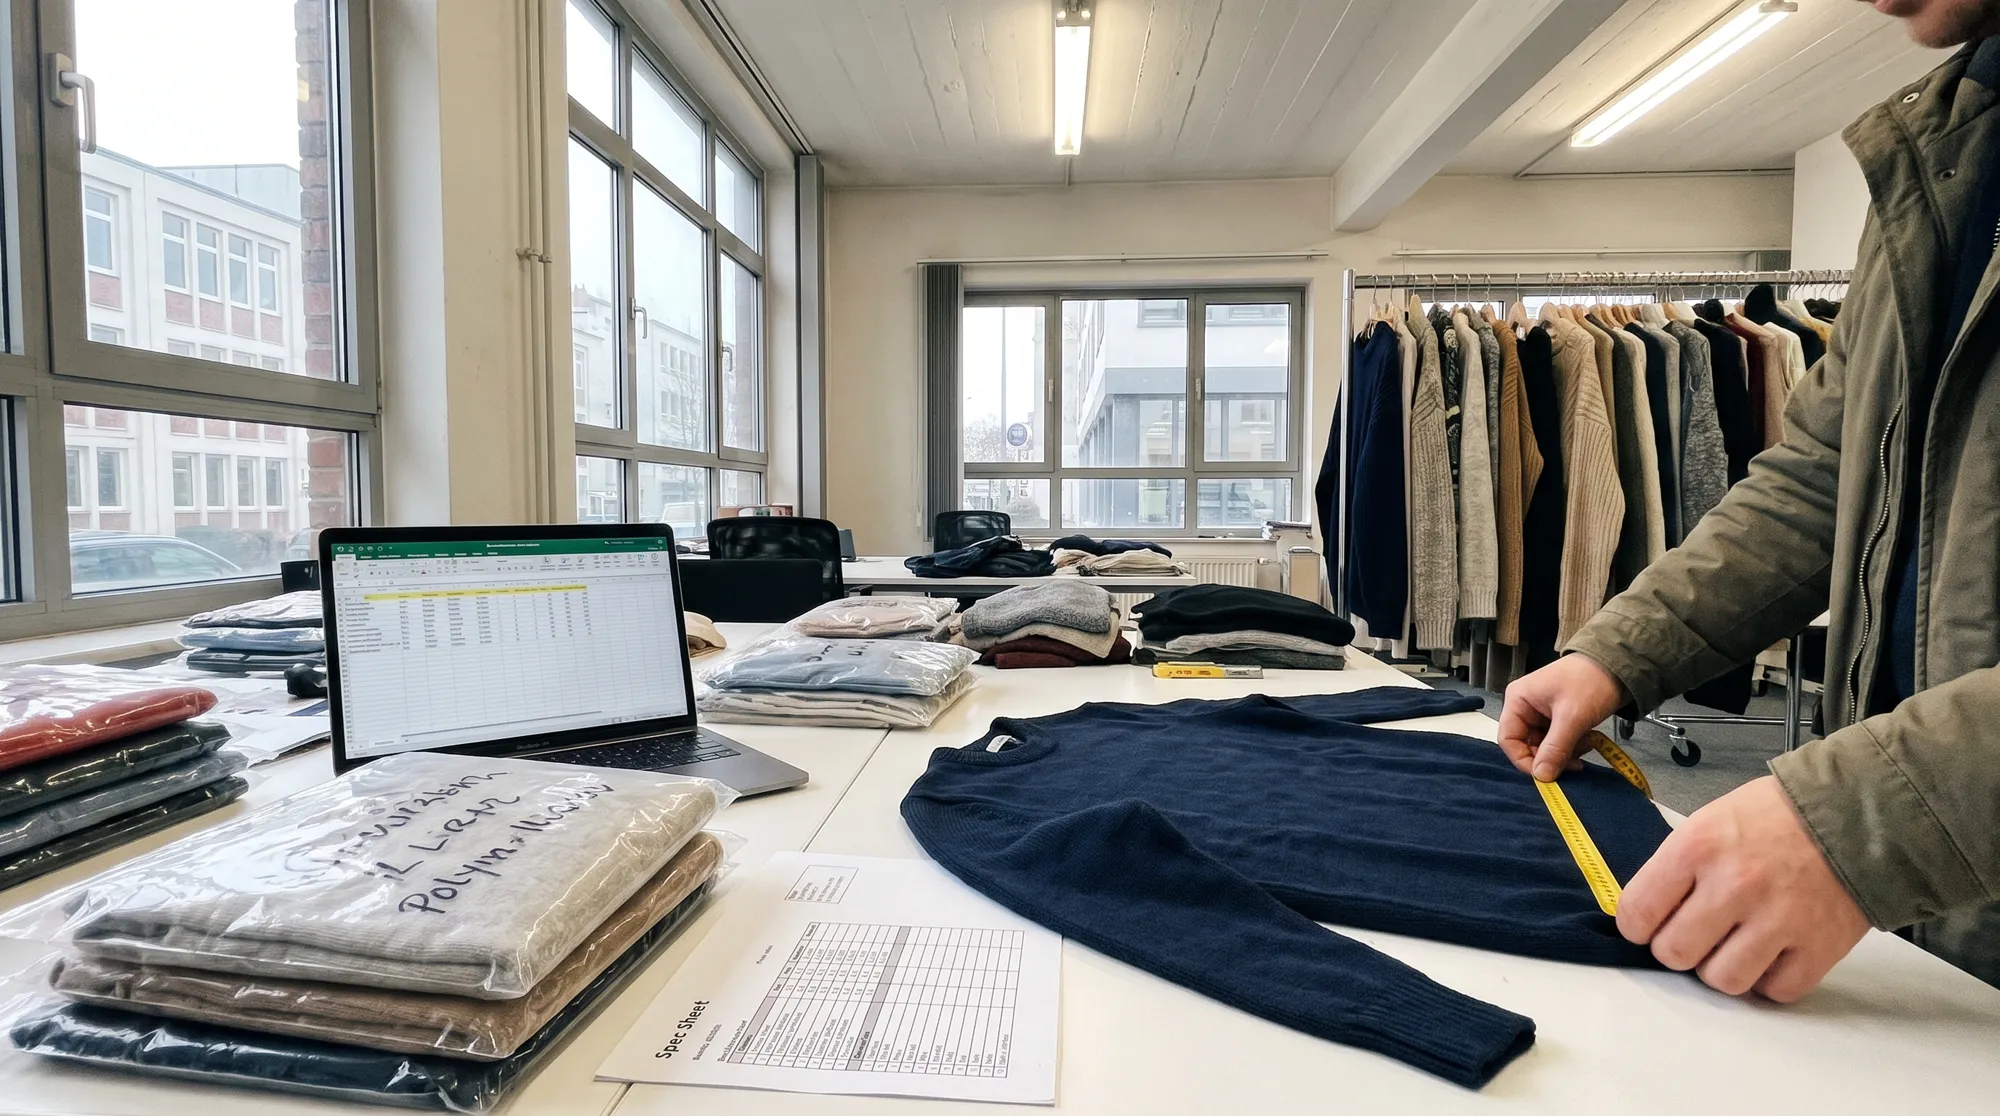
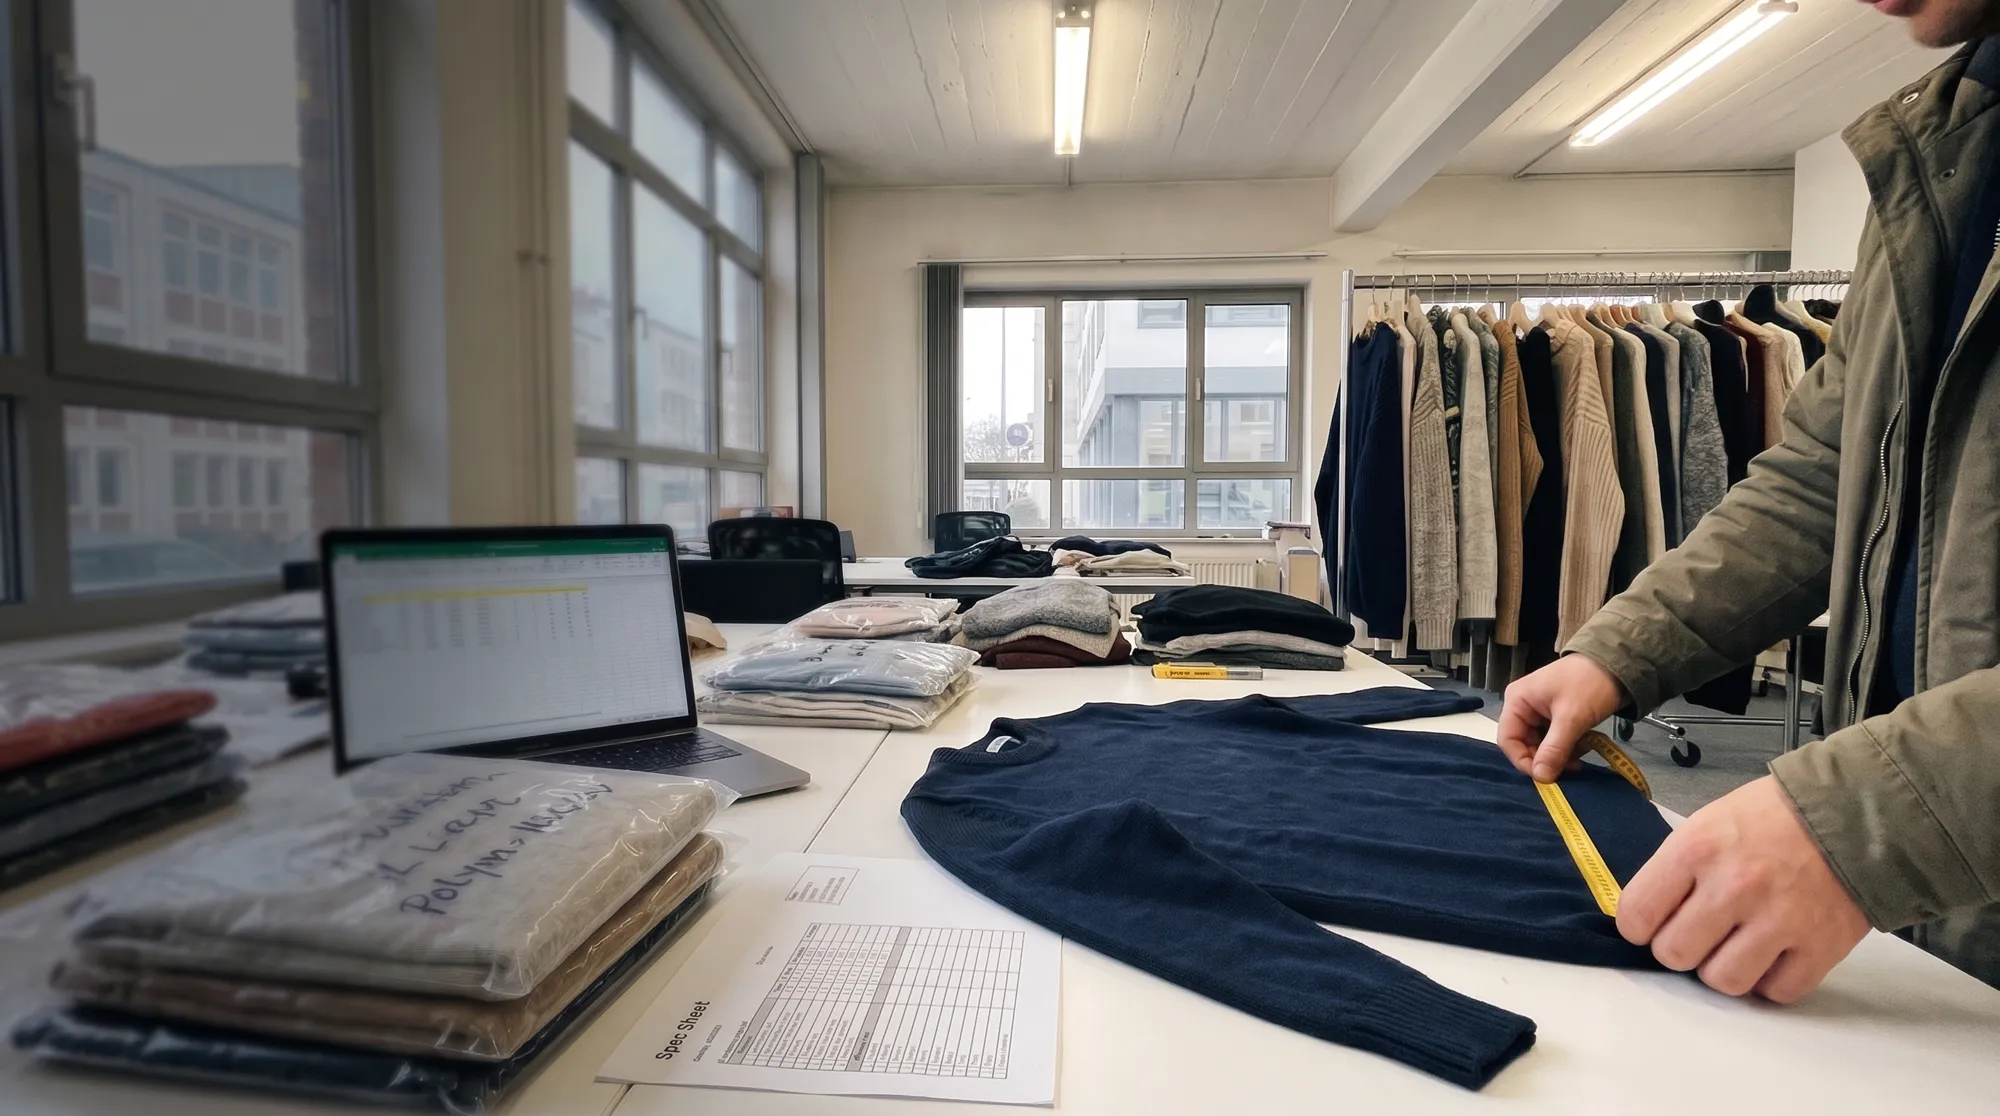
The quotes read like mercury.com's and hold WCAG AAA on every room, with no hard seam (founder, 24 Oct 2026)
The quote is set large and the name and role a size down, the role in grey, as Mercury sets its
founder's words. Behind them the room eases into shade: the photos' text side dimmed by Nano Banana
Pro from their own jobs, then an oval of the night's ground and a blur in 2, 4 and 6 px steps
centred on the words, so the sharp room never meets a masked edge. Every glyph measured AAA at 390,
820 and 1440 on all three rooms. Colours come from the tokens (the hand-typed colour check failed
CI on the first push).

diff --git a/components/site/sections/voices.tsx b/components/site/sections/voices.tsx
@@ -3,7 +3,7 @@
 // What suppliers and buyers said, in the place of mercury.com's customer stories. The founder spoke with a few of each
 // before launch (24 Oct 2026); their names are withheld until then, so each slide names the role, the kind of company
 // and the place, and the line under the slides says so. The photographs (Higgsfield, PROVENANCE.md) show each
-// speaker's setting and never a face, so no picture stands in for a person. Nothing moves on its own (founder, 24 Oct
+// speaker's setting and never the speaker's face, so no picture stands in for a person. Nothing moves on its own (founder, 24 Oct
 // 2026): a slide changes only when it is dragged or a rule under it is clicked.
 
 import { useRef, useState } from "react";
@@ -33,6 +33,25 @@ export const VOICES = [
     where: "Knitwear importer · Germany",
   },
 ] as const;
+
+/**
+ * The blur under the words, in three light steps (2, 4 and 6 px): each stronger one covers less of an oval centred on the
+ * words (the card's lower part on a phone), so the room goes soft gradually and never at an edge (founder, 24 Oct 2026:
+ * one 12 px blur behind a straight mask read as too much, with a hard seam).
+ */
+const SOFTEN = [
+  "backdrop-blur-[2px] [mask-image:linear-gradient(to_top,black_30%,transparent_72%)] sm:[mask-image:radial-gradient(ellipse_44%_62%_at_24%_72%,black_40%,transparent_90%)]",
+  "backdrop-blur-[4px] [mask-image:linear-gradient(to_top,black_20%,transparent_58%)] sm:[mask-image:radial-gradient(ellipse_44%_62%_at_24%_72%,black_30%,transparent_72%)]",
+  "backdrop-blur-[6px] [mask-image:linear-gradient(to_top,black_8%,transparent_44%)] sm:[mask-image:radial-gradient(ellipse_44%_62%_at_24%_72%,black_20%,transparent_56%)]",
+];
+
+/**
+ * The shade under the words, in the night's own ground: an oval centred on them, holding under the text and easing out
+ * through many stops so no step shows, the rest of the room left bright. Measured on all three rooms at 390, 820 and
+ * 1440: the name and role (normal text) at 7:1 or better, the quote (large text from 1024 px) at 4.5:1 or better, WCAG AAA.
+ */
+const SHADE =
+  "bg-[linear-gradient(to_top,rgb(var(--mk-ground-night)/0.86)_0%,rgb(var(--mk-ground-night)/0.82)_35%,rgb(var(--mk-ground-night)/0.7)_52%,rgb(var(--mk-ground-night)/0.45)_64%,rgb(var(--mk-ground-night)/0.2)_77%,transparent_90%)] sm:bg-[radial-gradient(ellipse_42%_48%_at_0%_100%,rgb(var(--mk-ground-night)/0.55)_0%,rgb(var(--mk-ground-night)/0.38)_45%,rgb(var(--mk-ground-night)/0.16)_75%,transparent_100%),radial-gradient(ellipse_44%_62%_at_24%_72%,rgb(var(--mk-ground-night)/0.84)_0%,rgb(var(--mk-ground-night)/0.82)_50%,rgb(var(--mk-ground-night)/0.68)_62%,rgb(var(--mk-ground-night)/0.45)_74%,rgb(var(--mk-ground-night)/0.24)_85%,rgb(var(--mk-ground-night)/0.08)_94%,transparent_100%)]";
 
 /** How far a drag must travel, in pixels, before it changes the slide. */
 const SWIPE = 60;
@@ -66,18 +85,22 @@ export function Voices() {
           const showing = i === on;
           return (
             <figure key={v.photo} inert={!showing} aria-hidden={!showing} className="w-full shrink-0">
-              <div className={cn(column, "relative aspect-[4/5] overflow-hidden rounded-frame bg-sunken sm:aspect-[2/1]")}>
-                {/* The photograph fills the card, as mercury.com's does (founder, 24 Oct 2026: no dark shadow down the left);
-                    a wash rising from the bottom keeps the words readable over a bright room. */}
+              <div className={cn(column, "relative aspect-[4/5] overflow-hidden rounded-frame bg-sunken sm:aspect-[3/2] lg:aspect-[2/1]")}>
+                {/* The photograph fills the card, as mercury.com's does. Under the words the room eases out of focus and into
+                    shade, as Mercury's founder's room does behind his quote: blur in steps that tighten towards the words'
+                    corner, so the sharp room never meets a blurred edge, then a shade eased out from that corner. */}
                 {/* eslint-disable-next-line @next/next/no-img-element -- pre-sized in public/site/home (PROVENANCE.md), no optimizer pass */}
                 <img src={`/site/home/voice-${v.photo}.webp`} alt="" width={2000} height={1116} loading="lazy" decoding="async" draggable={false} className="absolute inset-0 size-full object-cover" />
-                <div aria-hidden className="pointer-events-none absolute inset-0 bg-[linear-gradient(to_top,rgb(0_0_0/0.82),rgb(0_0_0/0.55)_35%,rgb(0_0_0/0.15)_70%,rgb(0_0_0/0.05))]" />
+                {SOFTEN.map((s) => (
+                  <div key={s} aria-hidden className={cn("pointer-events-none absolute inset-0", s)} />
+                ))}
+                <div aria-hidden className={cn("pointer-events-none absolute inset-0", SHADE)} />
                 <span className="pointer-events-none absolute left-5 top-5 flex h-8 items-center rounded-sm bg-[rgb(var(--mk-ground-night))] px-2 text-site-item text-ink md:left-8 md:top-8">{v.tag}</span>
-                <div className="pointer-events-none absolute inset-x-5 bottom-5 flex max-w-[440px] flex-col gap-6 md:inset-x-8 md:bottom-8 md:gap-8">
-                  <blockquote className="font-display text-site-card text-ink md:text-xl">“{v.quote}”</blockquote>
-                  <figcaption className="flex flex-col">
-                    <span className="font-display text-site-card text-ink md:text-xl">{v.who}</span>
-                    <span className="font-book text-site-card text-ink-2 md:text-xl">{v.where}</span>
+                <div className="pointer-events-none absolute inset-x-5 bottom-5 flex max-w-[440px] flex-col gap-6 sm:max-w-[min(440px,44%)] md:inset-x-8 md:bottom-8 md:gap-10">
+                  <blockquote className="font-display text-site-card text-ink lg:text-site-lead">“{v.quote}”</blockquote>
+                  <figcaption className="flex flex-col text-site-item md:text-site-card">
+                    <span className="font-display text-ink">{v.who}</span>
+                    <span className="font-book text-ink/85">{v.where}</span>
                   </figcaption>
                 </div>
               </div>

diff --git a/components/site/sections/page.test.ts b/components/site/sections/page.test.ts
@@ -345,6 +345,15 @@ describe("the live sections", () => {
     assert.equal((sec.match(/<figure inert="" aria-hidden="true"/g) ?? []).length, 2);
     assert.equal((sec.match(/aria-label="Show the [^"]+" aria-pressed="(?:true|false)"/g) ?? []).length, 3);
     assert.doesNotMatch(sec, /scale-x-0|origin-left/);
+    // Mercury's order of weight: the quote large, then the name and the role in grey, one size down. Every glyph measured
+    // WCAG AAA on all three rooms at 390, 820 and 1440 (24 Oct 2026: worst 6.80:1 for the large quote, 7.96:1 for normal
+    // text) only while the oval of shade holds 0.82 under the words and they stay inside 44% of the card; thinning either
+    // lets a bright room through. The blur steps up to 6 px at most, never one hard-masked layer (founder: a seam showed).
+    assert.match(sec, /<blockquote class="[^"]*text-ink lg:text-site-lead"/);
+    assert.match(sec, /radial-gradient\(ellipse_44%_62%_at_24%_72%,rgb\(var\(--mk-ground-night\)\/0\.84\)_0%,rgb\(var\(--mk-ground-night\)\/0\.82\)_50%/);
+    assert.match(sec, /sm:max-w-\[min\(440px,44%\)\]/);
+    assert.deepEqual([...sec.matchAll(/backdrop-blur-\[(\d)px\]/g)].map((m) => m[1]), ["2", "4", "6", "2", "4", "6", "2", "4", "6"]);
+    assert.doesNotMatch(sec, /backdrop-blur-(?:sm|md|lg|xl)\b/);
   });
 
   it("the checks: three cards, each one panel of the real app held still (no stand-in photograph, no video), no tabs that shift the page", () => {

diff --git a/public/site/home/PROVENANCE.md b/public/site/home/PROVENANCE.md
@@ -37,9 +37,13 @@ session scratchpad, not the repo.
 
 | Source | Job | Where it is drawn | Files |
 | -- | -- | -- | -- |
-| `uk1.png` (a London buying office, the buyer at her monitor from behind) | `f7ed9998-eec4-4a31-a5f3-02ae4a24dd97` | Slide 1, the UK buyer | `voice-buyer-uk.webp` |
-| `s1.png` (a Gazipur sewing floor, the managing director walking the line from behind) | `1cb9c9d8-841c-4d12-80c4-2a010874da50` | Slide 2, the supplier | `voice-supplier.webp` |
-| `eu1.png` (a Hamburg sample room, the buyer measuring a sweater, his face out of frame) | `cab6350a-e80c-4489-b872-96e254fe5164` | Slide 3, the German buyer | `voice-buyer-eu.webp` |
+| `uk1.png` (a London buying office, the buyer at her monitor from behind) | `f7ed9998-eec4-4a31-a5f3-02ae4a24dd97`, its left side dimmed by `12888243-bcf7-448c-b12c-0acaefc2665b` | Slide 1, the UK buyer | `voice-buyer-uk.webp` |
+| `s1.png` (a Gazipur sewing floor, the managing director walking the line from behind) | `1cb9c9d8-841c-4d12-80c4-2a010874da50`, its left wall's windows shuttered by `31a579b2-ed15-46ba-903d-6b2a7efa92ab` | Slide 2, the supplier | `voice-supplier.webp` |
+| `eu1.png` (a Hamburg sample room, the buyer measuring a sweater, his face out of frame) | `cab6350a-e80c-4489-b872-96e254fe5164`, its left side dimmed by `3cf89131-c9a5-45e8-a80b-09df363aacfc` | Slide 3, the German buyer | `voice-buyer-eu.webp` |
+
+Each was then edited by Nano Banana Pro from its own job (the job as the reference image) so the side the words sit on
+falls into the room's own low light, as Mercury's founder's room does behind his quote; the page adds a light, eased
+shade and a blur in small steps over that side (`sections/voices.tsx`) for WCAG AAA.
 
 The laptop's display in `hf-hero.png` was measured from the pixels (the display's flat grey field inside its black
 bezel): its corners at (1552, 1068), (2279, 1068), (2287, 1522) and (1546, 1522) of 3840 × 2160 (`DISPLAY` in
